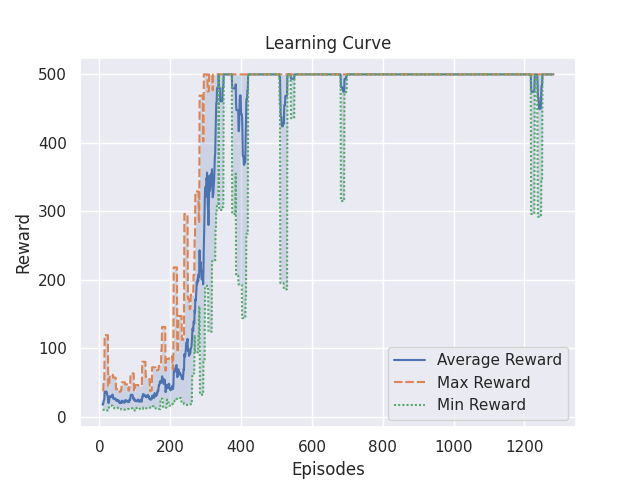
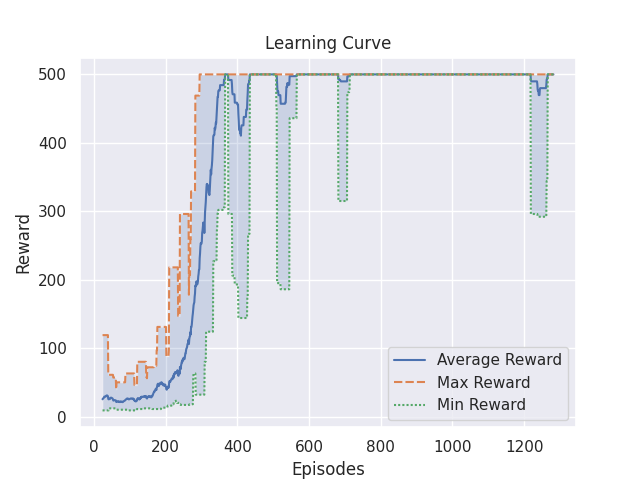
Added Acrobot

diff --git a/Classic Control/MountainCar/main.py b/Classic Control/MountainCar/main.py
@@ -1,0 +1,138 @@
+"""
+Open AI Gym MountainCar-v0
+Nick Kaparinos
+2021
+"""
+
+import time
+
+from gym import wrappers
+import gym
+import tianshou as ts
+import torch
+import numpy as np
+from torch.utils.tensorboard import SummaryWriter
+from tianshou.utils import TensorboardLogger, LazyLogger
+import torch
+from torch import nn
+from tianshou.utils.net.common import Net
+from utilities import *
+
+if __name__ == '__main__':
+    start = time.perf_counter()
+    env_id = "MountainCar-v0"
+    seed = 0
+    device = torch.device("cuda:0" if torch.cuda.is_available() else "cpu")
+
+    # Logging directory
+    model_name = 'Tianshou_ER_DD_DQN'
+    log_dir = 'logs/' + model_name + '_' + str(time.strftime('%d_%b_%Y_%H_%M_%S', time.localtime())) + '/'
+    writer = SummaryWriter(log_dir=log_dir)
+    logger = TensorboardLogger(writer, train_interval=1, update_interval=1)
+
+    # Environment
+    env = gym.make(env_id)
+    env.seed(seed=seed)
+    train_envs = ts.env.DummyVectorEnv([lambda: gym.make(env_id) for _ in range(1)])
+    test_envs = ts.env.DummyVectorEnv([lambda: gym.make(env_id) for _ in range(1)])
+
+    # Neural network
+    Q_param = {"hidden_sizes": [128, 128]}
+    V_param = {"hidden_sizes": [128, 128]}
+    learning_rate = 1e-3
+    model_hyperparameters = {'Q_param': Q_param['hidden_sizes'], 'V_param': V_param['hidden_sizes'],
+                             'learning_rate': learning_rate}
+    state_shape = env.observation_space.shape or env.observation_space.n
+    action_shape = env.action_space.shape or env.action_space.n
+    net = Net(state_shape, action_shape, dueling_param=(Q_param, V_param), device=device).to(device)
+    optim = torch.optim.Adam(net.parameters(), lr=learning_rate)
+
+    # Policy
+    policy_hyperparameters = {'discount_factor': 0.99, 'estimation_step': 1, 'target_update_freq': 10,
+                              'is_double': True}
+    policy = ts.policy.DQNPolicy(net, optim, **policy_hyperparameters)
+
+    # Collectors
+    prioritized_buffer_hyperparameters = {'total_size': 1_000_000, 'buffer_num': 1, 'alpha': 0.7, 'beta': 0.5}
+    train_collector = ts.data.Collector(policy, train_envs,
+                                        ts.data.PrioritizedVectorReplayBuffer(**prioritized_buffer_hyperparameters,
+                                                                              device=device),
+                                        exploration_noise=True)
+    test_collector = ts.data.Collector(policy, test_envs, exploration_noise=False)
+
+    # Epsilon schedule
+    def build_epsilon_schedule(max_epsilon=0.5, min_epsilon=0.0, num_episodes_decay=10000):
+        def custom_epsilon_schedule(epoch, env_step):
+            decay_step = (max_epsilon - min_epsilon) / num_episodes_decay
+            current_epsilon = max_epsilon - env_step * decay_step
+            if current_epsilon < 0.0:
+                current_epsilon = 0
+            policy.set_eps(current_epsilon)
+
+        return custom_epsilon_schedule
+
+    # Test function
+    def build_test_fn(num_episodes):
+        def custom_test_fn(epoch, env_step):
+            print(f"Epoch = {epoch}")
+
+            # Save agent
+            torch.save(policy.state_dict(), log_dir + f'dqn_epoch{epoch}.pth')
+
+            # No exploration
+            policy.set_eps(0.00)
+
+            # Record agents performance in video
+            for episode in range(num_episodes):
+                env = ts.env.DummyVectorEnv([lambda: wrappers.Monitor(env=gym.make(env_id),
+                                                                      directory=log_dir + '/videos/epoch_' + str(
+                                                                          epoch) + '/video' + str(episode), force=False)
+                                             for _ in range(1)])
+
+                # Video
+                policy.eval()
+                policy.set_eps(0.00)
+                collector = ts.data.Collector(policy, env, exploration_noise=True)
+                collector.collect(n_episode=1, render=1 / 60)
+
+        return custom_test_fn
+
+
+    # Training
+    trainer_hyperparameters = {'max_epoch': 5, 'step_per_epoch': 80_000, 'step_per_collect': 5,
+                               'episode_per_test': 10,
+                               'batch_size': 64}
+    epsilon_schedule_hyperparameters = {'max_epsilon': 0.7, 'min_epsilon': 0.0,
+                                        'num_episodes_decay': int(trainer_hyperparameters['step_per_epoch'] * 0.4)}
+    all_hypeparameters = model_hyperparameters | policy_hyperparameters | prioritized_buffer_hyperparameters | trainer_hyperparameters | epsilon_schedule_hyperparameters
+    all_hypeparameters['seed'] = seed
+    save_dict_to_file(all_hypeparameters, path=log_dir)
+    result = ts.trainer.offpolicy_trainer(policy, train_collector, test_collector, **trainer_hyperparameters,
+                                          train_fn=build_epsilon_schedule(**epsilon_schedule_hyperparameters),
+                                          test_fn=build_test_fn(num_episodes=5),
+                                          stop_fn=None,
+                                          logger=logger)
+    print(f'Finished training! Use {result["duration"]}')
+
+    # Learning Curve
+    learning_curve_tianshou(log_dir=log_dir, window=50)
+
+    # Record Episode Video
+    num_episodes = 10
+    for i in range(num_episodes):
+        env = ts.env.DummyVectorEnv([lambda: wrappers.Monitor(env=gym.make(env_id),
+                                                              directory=log_dir + '/videos/final_agent/video' + str(i),
+                                                              force=False) for _ in range(1)])
+
+        # Video
+        policy.eval()
+        policy.set_eps(0.00)
+        collector = ts.data.Collector(policy, env, exploration_noise=True)
+        collector.collect(n_episode=1, render=1 / 60)
+
+    # Save policy
+    torch.save(policy.state_dict(), log_dir + 'dqn.pth')
+
+    # Execution Time
+    end = time.perf_counter()  # tensorboard --logdir './Classic Control/MountainCar/logs'
+    print(f"\nExecution time = {end - start:.2f} second(s)")

diff --git a/Classic Control/Acrobot/utilities.py b/Classic Control/Acrobot/utilities.py
@@ -1,0 +1,135 @@
+"""
+Open AI Gym Acrobot-v0
+Nick Kaparinos
+2021
+"""
+
+import matplotlib.pyplot as plt
+import pandas as pd
+import seaborn as sns
+from stable_baselines3.common.callbacks import BaseCallback
+from tqdm import tqdm
+from os import listdir
+from tensorflow.python.summary.summary_iterator import summary_iterator
+import tensorflow as tf
+
+
+class LogStepsCallback(BaseCallback):
+    def __init__(self, log_dir, verbose=0):
+        self.log_dir = log_dir
+        super(LogStepsCallback, self).__init__(verbose)
+
+    def _on_training_start(self) -> None:
+        self.results = pd.DataFrame(columns=['Reward', 'Done'])
+        print("Τraining starts!")
+
+    def _on_step(self) -> bool:
+        if 'reward' in self.locals:
+            keys = ['reward', 'done']
+        else:
+            keys = ['rewards', 'dones']
+        self.results.loc[len(self.results)] = [self.locals[keys[0]][0], self.locals[keys[1]][0]]
+        return True
+
+    def _on_training_end(self) -> None:
+        self.results.to_csv(self.log_dir + 'training_data.csv', index=False)
+        print("Τraining ends!")
+
+
+class TqdmCallback(BaseCallback):
+    def __init__(self):
+        super().__init__()
+        self.progress_bar = None
+
+    def _on_training_start(self):
+        self.progress_bar = tqdm(total=self.locals['total_timesteps'])
+
+    def _on_step(self):
+        self.progress_bar.update(1)
+        return True
+
+    def _on_training_end(self):
+        self.progress_bar.close()
+        self.progress_bar = None
+
+
+def save_dict_to_file(dict, path, txt_name='hyperparameter_dict'):
+    f = open(path + '/' + txt_name + '.txt', 'w')
+    f.write(str(dict))
+    f.close()
+
+
+def calc_episode_rewards(training_data):
+    # Calculate the rewards for each training episode
+    episode_rewards = []
+    temp_reward_sum = 0
+
+    for step in range(training_data.shape[0]):
+        reward, done = training_data.iloc[step, :]
+        temp_reward_sum += reward
+        if done:
+            episode_rewards.append(temp_reward_sum)
+            temp_reward_sum = 0
+
+    result = pd.DataFrame(columns=['Reward'])
+    result['Reward'] = episode_rewards
+    return result
+
+
+def learning_curve(episode_rewards, log_dir, window=10):
+    # Calculate rolling window metrics
+    rolling_average = episode_rewards.rolling(window=window, min_periods=window).mean().dropna()
+    rolling_max = episode_rewards.rolling(window=window, min_periods=window).max().dropna()
+    rolling_min = episode_rewards.rolling(window=window, min_periods=window).min().dropna()
+
+    # Change column name
+    rolling_average.columns = ['Average Reward']
+    rolling_max.columns = ['Max Reward']
+    rolling_min.columns = ['Min Reward']
+    rolling_data = pd.concat([rolling_average, rolling_max, rolling_min], axis=1)
+
+    # Plot
+    sns.set()
+    ax = sns.lineplot(data=rolling_data)
+    ax.fill_between(rolling_average.index, rolling_min.iloc[:, 0], rolling_max.iloc[:, 0], alpha=0.2)
+    ax.set_title('Learning Curve')
+    ax.set_ylabel('Reward')
+    ax.set_xlabel('Episodes')
+    ax.set(ylim=(-500, 0))
+
+    # Save figure
+    plt.savefig(log_dir + 'learning_curve' + str(window) + '.png')
+
+
+def learning_curve_baselines(log_dir, window=10):
+    # Read data
+    training_data = pd.read_csv(log_dir + 'training_data.csv', index_col=None)
+
+    # Calculate episode rewards
+    episode_rewards = calc_episode_rewards(training_data)
+
+    learning_curve(episode_rewards=episode_rewards, log_dir=log_dir, window=window)
+
+
+def learning_curve_tianshou(log_dir, window=10):
+    # Find event file
+    files = listdir(log_dir)
+    for f in files:
+        if 'events' in f:
+            event_file = f
+            break
+
+    # Read episode rewards
+    episode_rewards_list = []
+    episode_rewards = pd.DataFrame(columns=['Reward'])
+    try:
+        for e in summary_iterator(log_dir + event_file):
+            if len(e.summary.value) > 0:
+                if e.summary.value[0].tag == 'train/reward':
+                    episode_rewards_list.append(e.summary.value[0].simple_value)
+    except Exception as e:
+        pass
+    episode_rewards['Reward'] = episode_rewards_list
+
+    # Learning curve
+    learning_curve(episode_rewards, log_dir, window=window)

diff --git a/Classic Control/Acrobot/main.py b/Classic Control/Acrobot/main.py
@@ -1,5 +1,5 @@
 """
-Open AI Gym MountainCar-v0
+Open AI Gym Acrobot-v1
 Nick Kaparinos
 2021
 """
@@ -18,12 +18,9 @@ from torch import nn
 from tianshou.utils.net.common import Net
 from utilities import *
 
-log_dir = '/home/nikos/Nikos/Code/Projects/Gym/Classic Control/MountainCar/logs/Tianshou_ER_DD_DQN_06_Sep_2021_19_30_42/'
-learning_curve_tianshou(log_dir=log_dir, window=100)
-
 if __name__ == '__main__':
     start = time.perf_counter()
-    env_id = "MountainCar-v0"
+    env_id = "Acrobot-v1"
     seed = 0
     device = torch.device("cuda:0" if torch.cuda.is_available() else "cpu")
 
@@ -63,7 +60,6 @@ if __name__ == '__main__':
                                         exploration_noise=True)
     test_collector = ts.data.Collector(policy, test_envs, exploration_noise=False)
 
-
     # Epsilon schedule
     def build_epsilon_schedule(max_epsilon=0.5, min_epsilon=0.0, num_episodes_decay=10000):
         def custom_epsilon_schedule(epoch, env_step):
@@ -74,7 +70,6 @@ if __name__ == '__main__':
             policy.set_eps(current_epsilon)
 
         return custom_epsilon_schedule
-
 
     # Test function
     def build_test_fn(num_episodes):
@@ -115,7 +110,6 @@ if __name__ == '__main__':
     result = ts.trainer.offpolicy_trainer(policy, train_collector, test_collector, **trainer_hyperparameters,
                                           train_fn=build_epsilon_schedule(**epsilon_schedule_hyperparameters),
                                           test_fn=build_test_fn(num_episodes=5),
-                                          # lambda epoch, env_step: policy.set_eps(0.00),
                                           stop_fn=None,
                                           logger=logger)
     print(f'Finished training! Use {result["duration"]}')
